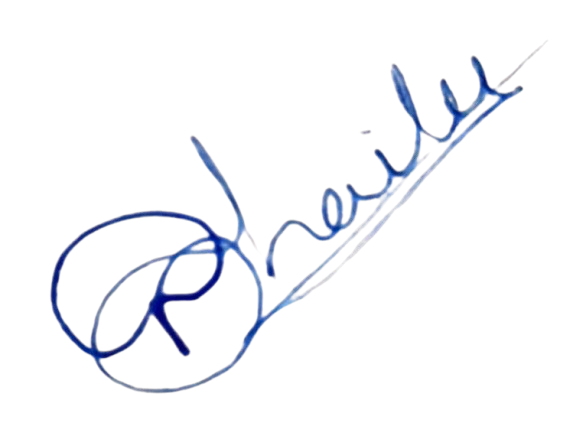
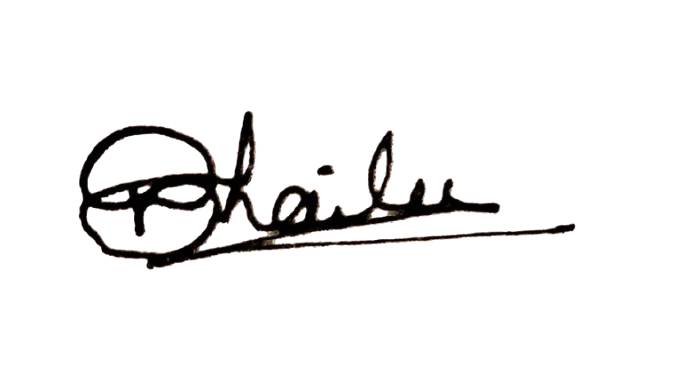
chore: update certificate signatures

Changed region(s): [[0.089, 0.1199, 0.9197, 0.8992], [0.445, 0.4496, 0.5044, 0.4796], [0.623, 0.2997, 0.6527, 0.3297]]

diff --git a/public/certificates/participation.html b/public/certificates/participation.html
@@ -51,14 +51,14 @@
 
         <div class="signatures-container">
           <div class="signature-box">
-            <img src="../assets/sig-shailee.png" alt="Signature" class="signature-img" />
+            <img src="../assets/sig-shailee.png" alt="Signature" class="signature-img sig-shailee" />
             <div class="signature-line"></div>
             <span class="signature-text">Ms. Shailee Pandya</span>
             <span class="signature-title">Coordinator, Center for IKS</span>
           </div>
 
           <div class="signature-box">
-            <img src="../assets/sig-shinde.png" alt="Signature" class="signature-img" />
+            <img src="../assets/sig-shinde.png" alt="Signature" class="signature-img sig-shinde" />
             <div class="signature-line"></div>
             <span class="signature-text">Dr. Dhyandeo D. Shinde</span>
             <span class="signature-title">Dean Academics, Sandip University</span>

diff --git a/public/certificates/score.html b/public/certificates/score.html
@@ -55,14 +55,14 @@
 
         <div class="signatures-container">
           <div class="signature-box">
-            <img src="../assets/sig-shailee.png" alt="Signature" class="signature-img" />
+            <img src="../assets/sig-shailee.png" alt="Signature" class="signature-img sig-shailee" />
             <div class="signature-line"></div>
             <span class="signature-text">Ms. Shailee Pandya</span>
             <span class="signature-title">Coordinator, Center for IKS</span>
           </div>
 
           <div class="signature-box">
-            <img src="../assets/sig-shinde.png" alt="Signature" class="signature-img" />
+            <img src="../assets/sig-shinde.png" alt="Signature" class="signature-img sig-shinde" />
             <div class="signature-line"></div>
             <span class="signature-text">Dr. Dhyandeo D. Shinde</span>
             <span class="signature-title">Dean Academics, Sandip University</span>

diff --git a/public/certificates/certificate.css b/public/certificates/certificate.css
@@ -242,7 +242,16 @@ body {
 .signature-img {
   height: 60px;
   object-fit: contain;
-  margin-bottom: -10px;
+  margin-bottom: 4px;
+}
+
+.sig-shailee {
+  height: 70px;
+  margin-bottom: -4px;
+}
+
+.sig-shinde {
+  height: 60px;
 }
 
 .signature-line {
